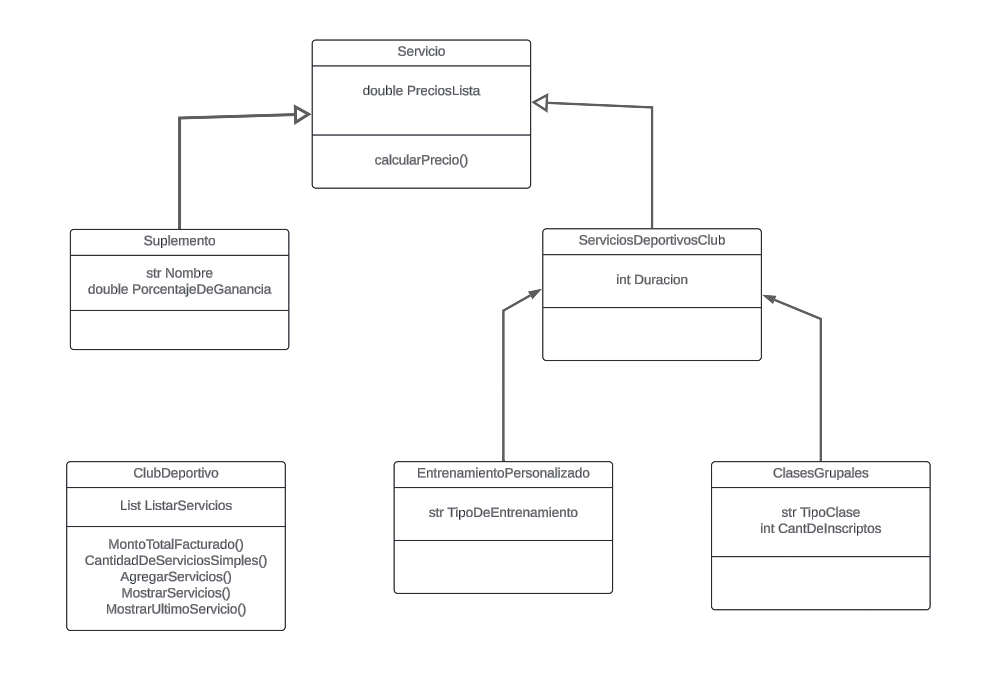
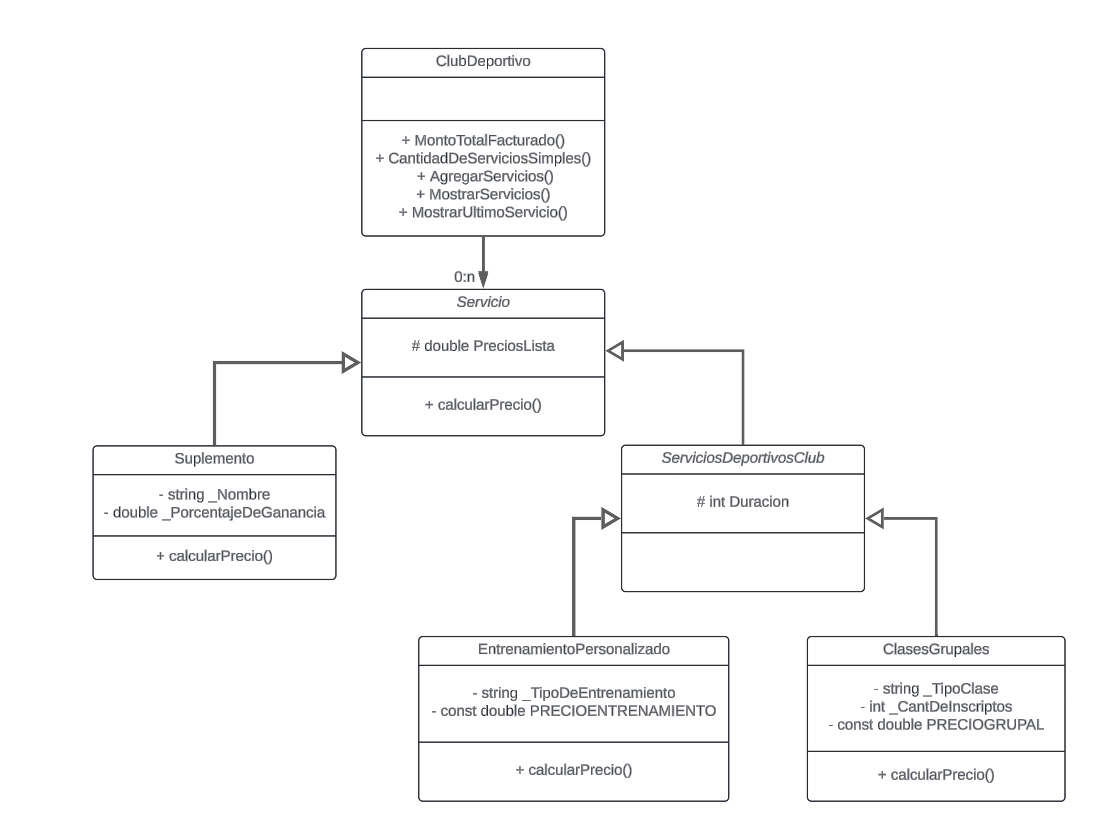
correccion de uml

diff --git a/PooTP2/ClaseGrupales.cs b/PooTP2/ClaseGrupales.cs
@@ -8,11 +8,11 @@ namespace PooTP2
 {
     internal class ClaseGrupales : ServiciosDeportivos
     {
-        private string _tipoClase;
+        private string _TipoClase;
         private int _CantidadDeInscriptos;
         private const double PRECIOGRUPAL = 80;
 
-        public string TipoClase { get => _tipoClase; set => _tipoClase = value; }
+        public string TipoClase { get => _TipoClase; set => _TipoClase = value; }
         public int CantidadDeInscriptos { get => _CantidadDeInscriptos; set => _CantidadDeInscriptos = value; }
 
         public ClaseGrupales(string tipoClase, int cantidadDeInscriptos, int _Duracion) 
@@ -23,7 +23,7 @@ namespace PooTP2
         }
         public override double CalcularPrecio()
         {
-            double precioClases = _Duracion * PRECIOGRUPAL;
+            double precioClases = Duracion * PRECIOGRUPAL;
             precioClases = (CantidadDeInscriptos > 10 ) ? precioClases * 0.80 : precioClases;
             double precioClasesFinal = precioClases += precioClases*0.105;
             return Math.Round(precioClasesFinal,2);
@@ -31,11 +31,11 @@ namespace PooTP2
 
          public override string ToString()
         {
-            int horas = _Duracion / 60;
-            int minutos = _Duracion % 60;
+            int horas = Duracion / 60;
+            int minutos = Duracion % 60;
             string duracionEnHoras = $"{horas}:{minutos:D2}";
             double result = CalcularPrecio();
-            return $"Clase Grupal: {TipoClase}\nCant de Inscriptos: {CantidadDeInscriptos}\nDuracion de la clase en Min: {_Duracion}\nDuracion en Horas: {duracionEnHoras}\nPrecio por minuto: ${_PrecioLista}\nPrecio total de la clase: ${result.ToString("F2")}\n";
+            return $"Clase Grupal: {TipoClase}\nCant de Inscriptos: {CantidadDeInscriptos}\nDuracion de la clase en Min: {Duracion}\nDuracion en Horas: {duracionEnHoras}\nPrecio por minuto: ${PrecioLista}\nPrecio total de la clase: ${result.ToString("F2")}\n";
         }
     }
 }

diff --git a/PooTP2/EntrenamientoPersonalizado.cs b/PooTP2/EntrenamientoPersonalizado.cs
@@ -21,17 +21,17 @@ namespace PooTP2
         }
 
          public override double CalcularPrecio() {
-            double precioClase = (PRECIOENTRENAMIENTO / 60) * _Duracion;
+            double precioClase = (PRECIOENTRENAMIENTO / 60) * Duracion;
             double precioFinal = precioClase += precioClase * 0.105;
             return precioFinal;
         }
         public override string ToString()
         {
-            int horas = _Duracion / 60;
-            int minutos = _Duracion % 60;
+            int horas = Duracion / 60;
+            int minutos = Duracion % 60;
             string duracionEnHoras = $"{horas}:{minutos:D2}";
             double result = CalcularPrecio();
-            return $"Tipo de entrenamiento: {TipoDeEntrenamiento} \nDuracion en Minutos: {_Duracion} \nDuracion en Horas: {duracionEnHoras} \nValor por Hr es: ${_PrecioLista} \nPrecio Total del entrenamiento: ${result.ToString("F2")}\n";
+            return $"Tipo de entrenamiento: {TipoDeEntrenamiento} \nDuracion en Minutos: {Duracion} \nDuracion en Horas: {duracionEnHoras} \nValor por Hr es: ${PrecioLista} \nPrecio Total del entrenamiento: ${result.ToString("F2")}\n";
         }
     }
 }

diff --git a/PooTP2/Suplementos.cs b/PooTP2/Suplementos.cs
@@ -22,11 +22,11 @@ namespace PooTP2
         public override string ToString()
         {
             double precioTotal = CalcularPrecio();
-            return $"Suplemento:{Nombre} \nPrecio de lista: ${_PrecioLista.ToString("F2")} \nPorcentaje de ganancia: {_PorcGanancia}% \nPrecio Total del suplemento: ${precioTotal.ToString("F2")}\n";
+            return $"Suplemento:{Nombre} \nPrecio de lista: ${PrecioLista.ToString("F2")} \nPorcentaje de ganancia: {_PorcGanancia}% \nPrecio Total del suplemento: ${precioTotal.ToString("F2")}\n";
         }
         public override double CalcularPrecio()
         {
-            double precioConGanancia =  _PrecioLista * (1+(_PorcGanancia / 100));
+            double precioConGanancia =  PrecioLista * (1+(_PorcGanancia / 100));
             double precioFinal = precioConGanancia * 1.21;
             return Math.Round(precioFinal,2);
         }

diff --git a/PooTP2/Servicio.cs b/PooTP2/Servicio.cs
@@ -8,11 +8,11 @@ namespace PooTP2
 {
     abstract class Servicio
     {
-         protected double _PrecioLista;
+        protected double PrecioLista;
 
         public Servicio(double precioLista)
         {
-            _PrecioLista = precioLista;
+            PrecioLista = precioLista;
         }
         public abstract double CalcularPrecio();
     }

diff --git a/PooTP2/ServiciosDeportivos.cs b/PooTP2/ServiciosDeportivos.cs
@@ -8,10 +8,10 @@ namespace PooTP2
 {
     abstract class ServiciosDeportivos : Servicio
     {
-        protected int _Duracion;
+        protected int Duracion;
         public ServiciosDeportivos(int duracion,double _PrecioLista ) : base(_PrecioLista)
         {
-            _Duracion = duracion;
+            Duracion = duracion;
         }
     }
 }
